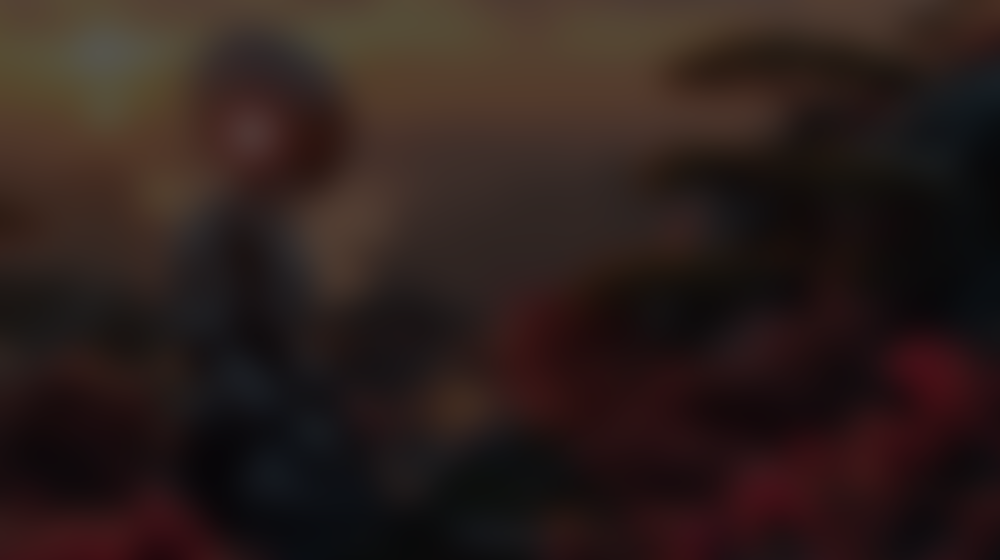
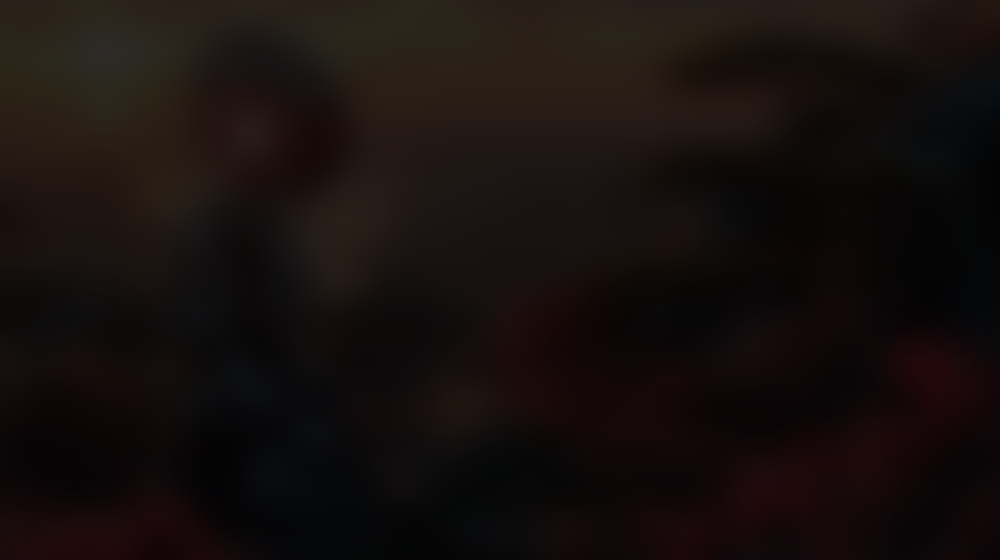
fix(ci): server hang

diff --git a/src/main.js b/src/main.js
@@ -220,21 +220,133 @@ const startPythonSubprocess = () => {
   console.log(
     `Starting diffuser [${launch.mode}] → ${launch.cmd} ${launch.args.join(" ")}`
   );
+  console.log(`[Spawn] cwd: ${launch.cwd}`);
+  console.log(`[Spawn] Binary exists: ${fs.existsSync(launch.cmd)}`);
+  if (app.isPackaged) {
+    console.log("[Production] PyInstaller binary may take 1-3 minutes to start on first launch...");
+  }
   notifyServerStatus("starting", { message: "Starting server..." });
 
-  const env = { ...process.env, PYTHONUNBUFFERED: "1" };
+  // Ensure proper environment for PyInstaller binaries
+  // PyInstaller onefile mode extracts to TMPDIR - ensure it's writable
+  const homeDir = process.env.HOME || os.homedir();
+  const tmpDir = process.env.TMPDIR || path.join(homeDir, ".bonzai-tmp");
+
+  // Create temp directory if it doesn't exist
+  if (!fs.existsSync(tmpDir)) {
+    try {
+      fs.mkdirSync(tmpDir, { recursive: true });
+    } catch (e) {
+      console.warn(`[Spawn] Could not create temp dir: ${e.message}`);
+    }
+  }
+
+  const env = {
+    ...process.env,
+    PYTHONUNBUFFERED: "1",
+    PYTHONDONTWRITEBYTECODE: "1",
+    // Ensure HOME is set (required for some libraries)
+    HOME: homeDir,
+    // Ensure TMPDIR is set (PyInstaller extracts here)
+    TMPDIR: tmpDir,
+    // Add the binary's directory to PATH (helps find co-located libs)
+    PATH: `${launch.cwd}:${process.env.PATH || ""}`,
+    // Ensure shell is available
+    SHELL: process.env.SHELL || "/bin/bash",
+    // Locale settings (prevents some encoding issues)
+    LANG: process.env.LANG || "en_US.UTF-8",
+    LC_ALL: process.env.LC_ALL || "en_US.UTF-8",
+  };
+
+  // Log detailed spawn info
+  console.log(`[Spawn] Command: ${launch.cmd}`);
+  console.log(`[Spawn] Args: ${JSON.stringify(launch.args)}`);
+  console.log(`[Spawn] CWD: ${launch.cwd}`);
+  console.log(`[Spawn] TMPDIR: ${tmpDir}`);
+  console.log(`[Spawn] Binary exists: ${fs.existsSync(launch.cmd)}`);
+
+  // Check if binary is executable
+  try {
+    fs.accessSync(launch.cmd, fs.constants.X_OK);
+    console.log(`[Spawn] Binary is executable: true`);
+  } catch {
+    console.warn(`[Spawn] Binary is executable: false - attempting chmod`);
+    try {
+      fs.chmodSync(launch.cmd, 0o755);
+      console.log(`[Spawn] chmod applied successfully`);
+    } catch (e) {
+      console.error(`[Spawn] chmod failed: ${e.message}`);
+    }
+  }
 
   subpy = child_process.spawn(launch.cmd, launch.args, {
     cwd: launch.cwd,
     env,
-    stdio: ["ignore", "pipe", "pipe"],
+    stdio: ["pipe", "pipe", "pipe"],
     shell: false,
+    detached: false,
   });
 
-  subpy.stdout.on("data", (d) => process.stdout.write(`Python stdout: ${d}`));
-  subpy.stderr.on("data", (d) => process.stderr.write(`Python stderr: ${d}`));
+  // Close stdin immediately - server doesn't need input
+  if (subpy.stdin) {
+    subpy.stdin.end();
+  }
+
+  console.log(`[Spawn] Process started with PID: ${subpy.pid}`);
+
+  // Monitor for silent hang - if no output after 30s, something is wrong
+  let outputReceived = false;
+  const hangTimeout = setTimeout(() => {
+    if (!outputReceived && subpy && subpy.pid) {
+      console.error(`[Spawn] WARNING: No output received after 30 seconds - binary may be hanging`);
+      console.error(`[Spawn] Check if ${launch.cmd} runs correctly when executed manually`);
+      console.error(`[Spawn] Try running: ${launch.cmd} ${launch.args.join(" ")}`);
+    }
+  }, 30000);
+
+  // Check if spawn failed immediately
+  if (!subpy.pid) {
+    console.error("[Spawn] ERROR: Process failed to start - no PID assigned");
+    notifyServerStatus("error", { message: "Failed to start server process" });
+    return;
+  }
+
+  // Track if we've seen any output from the server
+  let hasReceivedOutput = false;
+
+  // Forward server logs to renderer console
+  const forwardLog = (data, type = "log") => {
+    const text = data.toString().trim();
+    if (!text) return;
+    if (mainWindow && !mainWindow.isDestroyed()) {
+      mainWindow.webContents.send("server-log", { type, text });
+    }
+  };
+
+  // Mark output as received and clear hang timeout
+  const markOutputReceived = () => {
+    if (!hasReceivedOutput) {
+      hasReceivedOutput = true;
+      outputReceived = true; // Clear the hang warning
+      clearTimeout(hangTimeout);
+      console.log("[Server] First output received - server process is alive");
+    }
+  };
+
+  subpy.stdout.on("data", (d) => {
+    markOutputReceived();
+    process.stdout.write(`[Server] ${d}`);
+    forwardLog(d, "log");
+  });
+
+  subpy.stderr.on("data", (d) => {
+    markOutputReceived();
+    process.stderr.write(`[Server] ${d}`);
+    forwardLog(d, "error");
+  });
 
   subpy.on("close", (code) => {
+    clearTimeout(hangTimeout); // Clear hang detection
     console.log(`Python subprocess exited with code ${code}`);
     const wasRunning = subpy !== null;
     subpy = null;
@@ -285,11 +397,19 @@ const killPythonSubprocess = () => {
 };
 
 const checkPythonServer = async (url, silent = false) => {
-  const deadlineMs = Date.now() + 30000; // 30s
+  // Production builds with PyInstaller need longer startup time
+  // (extracting bundled libraries, loading ML models, etc.)
+  const timeoutMs = app.isPackaged ? 180000 : 30000; // 3 min for prod, 30s for dev
+  const startTime = Date.now();
+  const deadlineMs = startTime + timeoutMs;
+  let lastLogTime = 0;
+
   while (Date.now() < deadlineMs) {
     try {
       const res = await fetch(url);
       if (res.ok) {
+        const elapsedSec = ((Date.now() - startTime) / 1000).toFixed(1);
+        console.log(`Python server ready after ${elapsedSec}s`);
         // Server is ready - reset restart counter (stability achieved)
         serverRestartCount = 0;
         restartBackoffMs = 2000;
@@ -297,10 +417,26 @@ const checkPythonServer = async (url, silent = false) => {
         return true;
       }
     } catch {}
-    if (!silent) console.log("Waiting for Python server…");
+
+    const elapsed = Date.now() - startTime;
+    const elapsedSec = Math.floor(elapsed / 1000);
+
+    // Log progress every 5 seconds
+    if (!silent && elapsed - lastLogTime >= 5000) {
+      const remaining = Math.ceil((deadlineMs - Date.now()) / 1000);
+      console.log(`Waiting for Python server… (${elapsedSec}s elapsed, ${remaining}s remaining)`);
+      notifyServerStatus("starting", {
+        message: `Starting server... (${elapsedSec}s)`,
+        elapsed: elapsedSec,
+      });
+      lastLogTime = elapsed;
+    }
+
     await new Promise((r) => setTimeout(r, 1000));
   }
-  throw new Error("Python server did not start within timeout.");
+
+  const totalWait = Math.floor((Date.now() - startTime) / 1000);
+  throw new Error(`Python server did not start within ${totalWait}s timeout.`);
 };
 
 // Manual restart handler (can be called from renderer when max restarts exceeded)
@@ -692,7 +828,11 @@ app.on("ready", async () => {
     console.log("Python server is running!");
   } catch (error) {
     console.error("Failed to start Python server:", error);
-    app.quit();
+    // Don't quit - notify user and allow retry
+    notifyServerStatus("error", {
+      message: `Server failed to start: ${error.message}`,
+      canRetry: true,
+    });
   }
 });
 

diff --git a/src/preload.js b/src/preload.js
@@ -37,6 +37,13 @@ contextBridge.exposeInMainWorld("electronAPI", {
     // Return unsubscribe function
     return () => ipcRenderer.removeListener("server-status", handler);
   },
+  // Server log events (forward Python server output to renderer console)
+  onServerLog: (callback) => {
+    const handler = (_event, data) => callback(data);
+    ipcRenderer.on("server-log", handler);
+    // Return unsubscribe function
+    return () => ipcRenderer.removeListener("server-log", handler);
+  },
 });
 
 // ─────────────────────────────────────────────────────────────────────────────

diff --git a/src/renderer.ts b/src/renderer.ts
@@ -85,6 +85,19 @@ axios.interceptors.response.use(
   }
 );
 
+// Forward server logs to browser console
+if (window.electronAPI?.onServerLog) {
+  window.electronAPI.onServerLog(({ type, text }) => {
+    const prefix = "%c[Server]";
+    const style = "color: #10b981; font-weight: bold;";
+    if (type === "error") {
+      console.error(prefix, style, text);
+    } else {
+      console.log(prefix, style, text);
+    }
+  });
+}
+
 const app = createApp(App);
 const pinia = createPinia();
 
